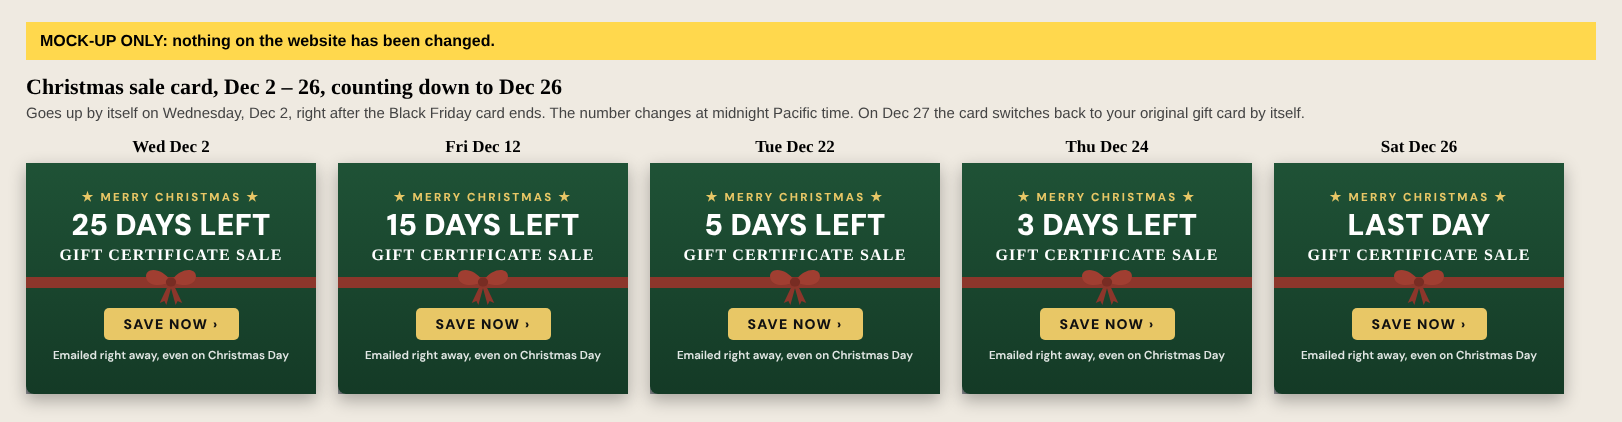
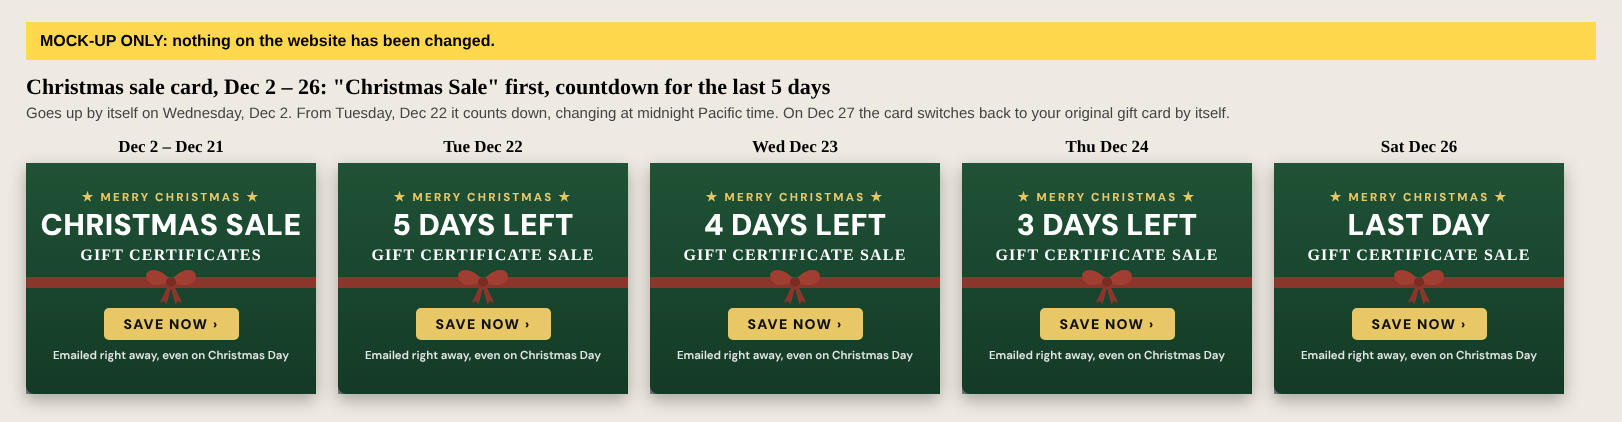
Christmas card: CHRISTMAS SALE Dec 2-21, countdown from 5 days (Dec 22-26); original card displays as a block
Claude-Session: https://claude.ai/code/session_01FKCxMu9cJw4uTku7VVBxnV

diff --git a/banners/homepage-gift-card-schedule.html b/banners/homepage-gift-card-schedule.html
@@ -3,7 +3,8 @@
   BEFORE REPLACING: copy the live Christmas card's exact code out of the site and save it (Bill wants it kept).
   What it shows, by Pacific time:
     through Tue Dec 1, 2026      -> Black Friday sale card, "SALE · N DAYS LEFT", "LAST DAY" on Dec 1
-    Wed Dec 2 through Sat Dec 26 -> Christmas sale card, "N DAYS LEFT", "LAST DAY" on Dec 26
+    Wed Dec 2 through Mon Dec 21 -> Christmas sale card reading "CHRISTMAS SALE"
+    Tue Dec 22 through Sat Dec 26 -> same card counting down, "5 DAYS LEFT" ... "LAST DAY" on Dec 26
     from Sun Dec 27              -> the original gift card (code saved Nov 20, 2026)
   Desktop (1024px and wider): 290 x 231 px, flush top-right of the hero photo, same spot and size as the Christmas card.
   Phone: up to 340 px wide, under the opening text, where the Christmas phone card is now.
@@ -14,36 +15,40 @@
 .bw-gift .bw-card{display:flex;flex-direction:column;align-items:center;justify-content:center;text-align:center;text-decoration:none;box-sizing:border-box;box-shadow:0 12px 28px rgba(0,0,0,.45),0 2px 5px rgba(0,0,0,.25);padding:4px 0 6px}
 .bw-gift-desktop .bw-card{position:absolute;top:0;right:0;z-index:20;width:290px;height:231px;border-radius:0 0 0 8px}
 .bw-gift-phone .bw-card{width:100%;max-width:340px;margin:20px auto 0;height:231px;border-radius:8px}
+/* the original card (from Dec 27) sat inside the page's own layout; as a block here it keeps its 340px max width */
+.bw-gift[data-phase="orig"] > a{display:block}
 @media (max-width:1023px){.bw-gift-desktop{display:none!important}}
 @media (min-width:1024px){.bw-gift-phone{display:none!important}}
 </style>
 <!-- DESKTOP: inside the hero photo container (the same position:relative parent the Christmas card sits in) -->
 <div class="bw-gift bw-gift-desktop" data-phase="bf"><a class="bw-card" href="/fly-fishing-gift-certificates#choose" aria-label="Black Friday sale on gift certificates" style="background:linear-gradient(180deg,#161616 0%,#000 100%)"><div style="font:900 30px/1.04 'DM Sans',Arial;letter-spacing:.3px;color:#fff;margin-top:4px;">BLACK FRIDAY</div><div style="font:900 24px/1.15 'DM Sans',Arial;letter-spacing:.6px;color:rgb(232,199,102);margin-top:3px;">SALE · <span data-countdown>DAYS LEFT</span></div><div style="font:700 16px 'Playfair Display',Georgia,serif;letter-spacing:1.2px;color:#fff;margin-top:6px;">GIFT CERTIFICATES</div><div style="position:relative;align-self:stretch;margin:13px 0 0;height:11px;background:rgb(140,54,43);"><svg aria-hidden="true" width="62" height="41" viewBox="0 0 120 80" style="position:absolute;left:50%;top:-15px;margin-left:-31px;overflow:visible;"><path d="M56 42 L38 80 L47 76 L51 84 L62 44 Z" fill="rgb(140,54,43)"/><path d="M64 42 L82 80 L73 76 L69 84 L58 44 Z" fill="rgb(140,54,43)"/><path d="M60 38 C42 8 6 10 12 32 C16 48 44 48 60 38 Z" fill="rgb(160,62,49)"/><path d="M60 38 C78 8 114 10 108 32 C104 48 76 48 60 38 Z" fill="rgb(160,62,49)"/><ellipse cx="60" cy="39" rx="10" ry="9" fill="rgb(120,44,35)"/></svg></div><div style="display:inline-block;margin-top:20px;background:rgb(232,199,102);color:#111;font:900 14px 'DM Sans',Arial;letter-spacing:1.3px;padding:7px 20px;border-radius:5px;">SAVE NOW ›</div><div style="font:600 11.5px/1.45 'DM Sans',Arial;color:rgba(255,255,255,.88);margin-top:8px;">Ends Tuesday · Emailed right away</div></a></div>
-<div class="bw-gift bw-gift-desktop" data-phase="xmas"><a class="bw-card" href="/fly-fishing-gift-certificates#choose" aria-label="Christmas sale on gift certificates" style="background:linear-gradient(180deg,rgb(31,82,54) 0%,rgb(20,58,38) 100%)"><div style="font:800 11.5px 'DM Sans',Arial;letter-spacing:2.2px;color:rgb(232,199,102);">★ MERRY CHRISTMAS ★</div><div style="font:900 30px/1.04 'DM Sans',Arial;letter-spacing:.3px;color:#fff;margin-top:4px;"><span data-countdown>DAYS LEFT</span></div><div style="font:700 16px 'Playfair Display',Georgia,serif;letter-spacing:1.2px;color:#fff;margin-top:6px;">GIFT CERTIFICATE SALE</div><div style="position:relative;align-self:stretch;margin:13px 0 0;height:11px;background:rgb(140,54,43);"><svg aria-hidden="true" width="62" height="41" viewBox="0 0 120 80" style="position:absolute;left:50%;top:-15px;margin-left:-31px;overflow:visible;"><path d="M56 42 L38 80 L47 76 L51 84 L62 44 Z" fill="rgb(140,54,43)"/><path d="M64 42 L82 80 L73 76 L69 84 L58 44 Z" fill="rgb(140,54,43)"/><path d="M60 38 C42 8 6 10 12 32 C16 48 44 48 60 38 Z" fill="rgb(160,62,49)"/><path d="M60 38 C78 8 114 10 108 32 C104 48 76 48 60 38 Z" fill="rgb(160,62,49)"/><ellipse cx="60" cy="39" rx="10" ry="9" fill="rgb(120,44,35)"/></svg></div><div style="display:inline-block;margin-top:20px;background:rgb(232,199,102);color:#111;font:900 14px 'DM Sans',Arial;letter-spacing:1.3px;padding:7px 20px;border-radius:5px;">SAVE NOW ›</div><div style="font:600 11.5px/1.45 'DM Sans',Arial;color:rgba(255,255,255,.88);margin-top:8px;">Emailed right away, even on Christmas Day</div></a></div>
+<div class="bw-gift bw-gift-desktop" data-phase="xmas"><a class="bw-card" href="/fly-fishing-gift-certificates#choose" aria-label="Christmas sale on gift certificates" style="background:linear-gradient(180deg,rgb(31,82,54) 0%,rgb(20,58,38) 100%)"><div style="font:800 11.5px 'DM Sans',Arial;letter-spacing:2.2px;color:rgb(232,199,102);">★ MERRY CHRISTMAS ★</div><div style="font:900 30px/1.04 'DM Sans',Arial;letter-spacing:.3px;color:#fff;margin-top:4px;"><span data-countdown>DAYS LEFT</span></div><div style="font:700 16px 'Playfair Display',Georgia,serif;letter-spacing:1.2px;color:#fff;margin-top:6px;"><span data-sub>GIFT CERTIFICATES</span></div><div style="position:relative;align-self:stretch;margin:13px 0 0;height:11px;background:rgb(140,54,43);"><svg aria-hidden="true" width="62" height="41" viewBox="0 0 120 80" style="position:absolute;left:50%;top:-15px;margin-left:-31px;overflow:visible;"><path d="M56 42 L38 80 L47 76 L51 84 L62 44 Z" fill="rgb(140,54,43)"/><path d="M64 42 L82 80 L73 76 L69 84 L58 44 Z" fill="rgb(140,54,43)"/><path d="M60 38 C42 8 6 10 12 32 C16 48 44 48 60 38 Z" fill="rgb(160,62,49)"/><path d="M60 38 C78 8 114 10 108 32 C104 48 76 48 60 38 Z" fill="rgb(160,62,49)"/><ellipse cx="60" cy="39" rx="10" ry="9" fill="rgb(120,44,35)"/></svg></div><div style="display:inline-block;margin-top:20px;background:rgb(232,199,102);color:#111;font:900 14px 'DM Sans',Arial;letter-spacing:1.3px;padding:7px 20px;border-radius:5px;">SAVE NOW ›</div><div style="font:600 11.5px/1.45 'DM Sans',Arial;color:rgba(255,255,255,.88);margin-top:8px;">Emailed right away, even on Christmas Day</div></a></div>
 <div class="bw-gift bw-gift-desktop" data-phase="orig"><a href="/fly-fishing-gift-certificates" aria-label="Buy a gift certificate for a private fly fishing lesson" style="position: absolute; top: 26px; right: 26px; z-index: 20; width: 178px; background: linear-gradient(180deg, hsl(var(--gift-card-bg-top)) 0%, hsl(var(--gift-card-bg-btm)) 100%); border-radius: 7px; box-shadow: var(--gift-card-shadow); text-align: center; padding: 11px 0px 9px; text-decoration: none;"><div style="font-family: var(--font-heading); font-size: 14.5px; font-weight: 700; letter-spacing: 0.7px; line-height: 18px; color: hsl(var(--gift-card-title));">GIFT CERTIFICATE</div><div style="font-family: var(--font-sans); font-size: 7.8px; font-weight: 600; letter-spacing: 1.4px; color: hsl(var(--gift-card-sub)); margin-top: 2px;">A PRIVATE FLY FISHING LESSON</div><div style="position: relative; margin-top: 15px; height: 12px; background: linear-gradient(180deg, hsl(var(--gift-ribbon-top)) 0%, hsl(var(--gift-ribbon-mid)) 50%, hsl(var(--gift-ribbon-dark)) 100%); box-shadow: var(--gift-ribbon-shadow);"><svg aria-hidden="true" width="70" height="47" viewBox="0 0 120 80" style="position: absolute; left: 50%; top: -17px; margin-left: -35px; overflow: visible;"><defs><linearGradient id="giftBowRed" x1="0" y1="0" x2="0" y2="1"><stop offset="0" stop-color="hsl(var(--gift-bow-top))"></stop><stop offset=".55" stop-color="hsl(var(--gift-ribbon-mid))"></stop><stop offset="1" stop-color="hsl(var(--gift-bow-dark))"></stop></linearGradient></defs><path d="M56 42 L38 80 L47 76 L51 84 L62 44 Z" fill="url(#giftBowRed)"></path><path d="M64 42 L82 80 L73 76 L69 84 L58 44 Z" fill="url(#giftBowRed)"></path><path d="M60 38 C42 8 6 10 12 32 C16 48 44 48 60 38 Z" fill="url(#giftBowRed)"></path><path d="M60 38 C78 8 114 10 108 32 C104 48 76 48 60 38 Z" fill="url(#giftBowRed)"></path><path d="M58 36 C44 18 22 18 22 30" fill="none" stroke="hsl(var(--gift-bow-stroke))" stroke-opacity=".5" stroke-width="2" stroke-linecap="round" stroke-linejoin="round"></path><path d="M62 36 C76 18 98 18 98 30" fill="none" stroke="hsl(var(--gift-bow-stroke))" stroke-opacity=".5" stroke-width="2" stroke-linecap="round" stroke-linejoin="round"></path><ellipse cx="60" cy="39" rx="10" ry="9" fill="hsl(var(--gift-bow-knot))"></ellipse><ellipse cx="58" cy="36" rx="4" ry="3" fill="hsl(var(--gift-bow-hi))" fill-opacity=".45"></ellipse></svg></div><div style="font-family: var(--font-sans); font-size: 12.5px; font-weight: 700; color: hsl(var(--gift-ribbon-mid)); margin-top: 19px;">Buy Online ›</div></a></div>
 <!-- PHONE: where the Christmas phone card is now -->
 <div class="bw-gift bw-gift-phone" data-phase="bf"><a class="bw-card" href="/fly-fishing-gift-certificates#choose" aria-label="Black Friday sale on gift certificates" style="background:linear-gradient(180deg,#161616 0%,#000 100%)"><div style="font:900 30px/1.04 'DM Sans',Arial;letter-spacing:.3px;color:#fff;margin-top:4px;">BLACK FRIDAY</div><div style="font:900 24px/1.15 'DM Sans',Arial;letter-spacing:.6px;color:rgb(232,199,102);margin-top:3px;">SALE · <span data-countdown>DAYS LEFT</span></div><div style="font:700 16px 'Playfair Display',Georgia,serif;letter-spacing:1.2px;color:#fff;margin-top:6px;">GIFT CERTIFICATES</div><div style="position:relative;align-self:stretch;margin:13px 0 0;height:11px;background:rgb(140,54,43);"><svg aria-hidden="true" width="62" height="41" viewBox="0 0 120 80" style="position:absolute;left:50%;top:-15px;margin-left:-31px;overflow:visible;"><path d="M56 42 L38 80 L47 76 L51 84 L62 44 Z" fill="rgb(140,54,43)"/><path d="M64 42 L82 80 L73 76 L69 84 L58 44 Z" fill="rgb(140,54,43)"/><path d="M60 38 C42 8 6 10 12 32 C16 48 44 48 60 38 Z" fill="rgb(160,62,49)"/><path d="M60 38 C78 8 114 10 108 32 C104 48 76 48 60 38 Z" fill="rgb(160,62,49)"/><ellipse cx="60" cy="39" rx="10" ry="9" fill="rgb(120,44,35)"/></svg></div><div style="display:inline-block;margin-top:20px;background:rgb(232,199,102);color:#111;font:900 14px 'DM Sans',Arial;letter-spacing:1.3px;padding:7px 20px;border-radius:5px;">SAVE NOW ›</div><div style="font:600 11.5px/1.45 'DM Sans',Arial;color:rgba(255,255,255,.88);margin-top:8px;">Ends Tuesday · Emailed right away</div></a></div>
-<div class="bw-gift bw-gift-phone" data-phase="xmas"><a class="bw-card" href="/fly-fishing-gift-certificates#choose" aria-label="Christmas sale on gift certificates" style="background:linear-gradient(180deg,rgb(31,82,54) 0%,rgb(20,58,38) 100%)"><div style="font:800 11.5px 'DM Sans',Arial;letter-spacing:2.2px;color:rgb(232,199,102);">★ MERRY CHRISTMAS ★</div><div style="font:900 30px/1.04 'DM Sans',Arial;letter-spacing:.3px;color:#fff;margin-top:4px;"><span data-countdown>DAYS LEFT</span></div><div style="font:700 16px 'Playfair Display',Georgia,serif;letter-spacing:1.2px;color:#fff;margin-top:6px;">GIFT CERTIFICATE SALE</div><div style="position:relative;align-self:stretch;margin:13px 0 0;height:11px;background:rgb(140,54,43);"><svg aria-hidden="true" width="62" height="41" viewBox="0 0 120 80" style="position:absolute;left:50%;top:-15px;margin-left:-31px;overflow:visible;"><path d="M56 42 L38 80 L47 76 L51 84 L62 44 Z" fill="rgb(140,54,43)"/><path d="M64 42 L82 80 L73 76 L69 84 L58 44 Z" fill="rgb(140,54,43)"/><path d="M60 38 C42 8 6 10 12 32 C16 48 44 48 60 38 Z" fill="rgb(160,62,49)"/><path d="M60 38 C78 8 114 10 108 32 C104 48 76 48 60 38 Z" fill="rgb(160,62,49)"/><ellipse cx="60" cy="39" rx="10" ry="9" fill="rgb(120,44,35)"/></svg></div><div style="display:inline-block;margin-top:20px;background:rgb(232,199,102);color:#111;font:900 14px 'DM Sans',Arial;letter-spacing:1.3px;padding:7px 20px;border-radius:5px;">SAVE NOW ›</div><div style="font:600 11.5px/1.45 'DM Sans',Arial;color:rgba(255,255,255,.88);margin-top:8px;">Emailed right away, even on Christmas Day</div></a></div>
+<div class="bw-gift bw-gift-phone" data-phase="xmas"><a class="bw-card" href="/fly-fishing-gift-certificates#choose" aria-label="Christmas sale on gift certificates" style="background:linear-gradient(180deg,rgb(31,82,54) 0%,rgb(20,58,38) 100%)"><div style="font:800 11.5px 'DM Sans',Arial;letter-spacing:2.2px;color:rgb(232,199,102);">★ MERRY CHRISTMAS ★</div><div style="font:900 30px/1.04 'DM Sans',Arial;letter-spacing:.3px;color:#fff;margin-top:4px;"><span data-countdown>DAYS LEFT</span></div><div style="font:700 16px 'Playfair Display',Georgia,serif;letter-spacing:1.2px;color:#fff;margin-top:6px;"><span data-sub>GIFT CERTIFICATES</span></div><div style="position:relative;align-self:stretch;margin:13px 0 0;height:11px;background:rgb(140,54,43);"><svg aria-hidden="true" width="62" height="41" viewBox="0 0 120 80" style="position:absolute;left:50%;top:-15px;margin-left:-31px;overflow:visible;"><path d="M56 42 L38 80 L47 76 L51 84 L62 44 Z" fill="rgb(140,54,43)"/><path d="M64 42 L82 80 L73 76 L69 84 L58 44 Z" fill="rgb(140,54,43)"/><path d="M60 38 C42 8 6 10 12 32 C16 48 44 48 60 38 Z" fill="rgb(160,62,49)"/><path d="M60 38 C78 8 114 10 108 32 C104 48 76 48 60 38 Z" fill="rgb(160,62,49)"/><ellipse cx="60" cy="39" rx="10" ry="9" fill="rgb(120,44,35)"/></svg></div><div style="display:inline-block;margin-top:20px;background:rgb(232,199,102);color:#111;font:900 14px 'DM Sans',Arial;letter-spacing:1.3px;padding:7px 20px;border-radius:5px;">SAVE NOW ›</div><div style="font:600 11.5px/1.45 'DM Sans',Arial;color:rgba(255,255,255,.88);margin-top:8px;">Emailed right away, even on Christmas Day</div></a></div>
 <div class="bw-gift bw-gift-phone" data-phase="orig"><a href="/fly-fishing-gift-certificates" aria-label="Buy a gift certificate for a private fly fishing lesson" style="width: 100%; max-width: 340px; margin-top: 20px; background: linear-gradient(180deg, hsl(var(--gift-card-bg-top)) 0%, hsl(var(--gift-card-bg-btm)) 100%); border-radius: 7px; box-shadow: var(--gift-card-shadow); text-align: center; padding: 11px 0px 9px; text-decoration: none;"><div style="font-family: var(--font-heading); font-size: 14.5px; font-weight: 700; letter-spacing: 0.7px; line-height: 18px; color: hsl(var(--gift-card-title));">GIFT CERTIFICATE</div><div style="font-family: var(--font-sans); font-size: 7.8px; font-weight: 600; letter-spacing: 1.4px; color: hsl(var(--gift-card-sub)); margin-top: 2px;">A PRIVATE FLY FISHING LESSON</div><div style="position: relative; margin-top: 15px; height: 12px; background: linear-gradient(180deg, hsl(var(--gift-ribbon-top)) 0%, hsl(var(--gift-ribbon-mid)) 50%, hsl(var(--gift-ribbon-dark)) 100%); box-shadow: var(--gift-ribbon-shadow);"><svg aria-hidden="true" width="70" height="47" viewBox="0 0 120 80" style="position: absolute; left: 50%; top: -17px; margin-left: -35px; overflow: visible;"><defs><linearGradient id="giftBowRedMobile" x1="0" y1="0" x2="0" y2="1"><stop offset="0" stop-color="hsl(var(--gift-bow-top))"></stop><stop offset=".55" stop-color="hsl(var(--gift-ribbon-mid))"></stop><stop offset="1" stop-color="hsl(var(--gift-bow-dark))"></stop></linearGradient></defs><path d="M56 42 L38 80 L47 76 L51 84 L62 44 Z" fill="url(#giftBowRedMobile)"></path><path d="M64 42 L82 80 L73 76 L69 84 L58 44 Z" fill="url(#giftBowRedMobile)"></path><path d="M60 38 C42 8 6 10 12 32 C16 48 44 48 60 38 Z" fill="url(#giftBowRedMobile)"></path><path d="M60 38 C78 8 114 10 108 32 C104 48 76 48 60 38 Z" fill="url(#giftBowRedMobile)"></path><path d="M58 36 C44 18 22 18 22 30" fill="none" stroke="hsl(var(--gift-bow-stroke))" stroke-opacity=".5" stroke-width="2" stroke-linecap="round" stroke-linejoin="round"></path><path d="M62 36 C76 18 98 18 98 30" fill="none" stroke="hsl(var(--gift-bow-stroke))" stroke-opacity=".5" stroke-width="2" stroke-linecap="round" stroke-linejoin="round"></path><ellipse cx="60" cy="39" rx="10" ry="9" fill="hsl(var(--gift-bow-knot))"></ellipse><ellipse cx="58" cy="36" rx="4" ry="3" fill="hsl(var(--gift-bow-hi))" fill-opacity=".45"></ellipse></svg></div><div style="font-family: var(--font-sans); font-size: 12.5px; font-weight: 700; color: hsl(var(--gift-ribbon-mid)); margin-top: 19px;">Buy Online ›</div></a></div>
 <script>
 // Days left in a sale that ends at the end of endDate (YYYY-MM-DD), counted in Pacific time.
-// Returns null after the sale has ended.
-function saleCountdown(endDate, now) {
+// Returns null after the sale has ended. With startAt/before: returns before text while more than startAt days remain.
+function saleCountdown(endDate, now, startAt, before) {
   now = now || new Date();
   var pt = new Intl.DateTimeFormat('en-CA', {timeZone: 'America/Los_Angeles', year: 'numeric', month: '2-digit', day: '2-digit'}).format(now);
   var today = Date.UTC(+pt.slice(0, 4), +pt.slice(5, 7) - 1, +pt.slice(8, 10));
   var end = Date.UTC(+endDate.slice(0, 4), +endDate.slice(5, 7) - 1, +endDate.slice(8, 10));
   var left = Math.round((end - today) / 86400000) + 1;
   if (left < 1) return null;
+  if (startAt && left > startAt) return before;
   return left === 1 ? 'LAST DAY' : left + ' DAYS LEFT';
 }
 (function(){
   var now = window.__bwGiftNow ? new Date(window.__bwGiftNow) : new Date();  /* __bwGiftNow: testing only */
-  var bf = saleCountdown('2026-12-01', now), xm = bf ? null : saleCountdown('2026-12-26', now);
+  var bf = saleCountdown('2026-12-01', now), xm = bf ? null : saleCountdown('2026-12-26', now, 5, 'CHRISTMAS SALE');
   var phase = bf ? 'bf' : (xm ? 'xmas' : 'orig');
   document.querySelectorAll('.bw-gift[data-phase="' + phase + '"]').forEach(function(el){
     el.setAttribute('data-on', '');
     el.querySelectorAll('[data-countdown]').forEach(function(s){ s.textContent = phase === 'bf' ? bf : xm; });
+    el.querySelectorAll('[data-sub]').forEach(function(s){ s.textContent = xm === 'CHRISTMAS SALE' ? 'GIFT CERTIFICATES' : 'GIFT CERTIFICATE SALE'; });
   });
 })();
 </script>

diff --git a/mockups/_tmp.html b/mockups/_tmp.html
@@ -1,0 +1,1 @@
+<html><body style="margin:0;width:1680px;height:1050px;background:url(homepage-now-christmas.png) no-repeat 0 0;"><div style="position:absolute;left:0;top:296px;width:1660px;height:600px;"><a class="gcard" href="/fly-fishing-gift-certificates#choose" style="position:absolute;top:0;right:0;width:290px;height:231px;box-sizing:border-box;background:linear-gradient(180deg,rgb(31,82,54) 0%,rgb(20,58,38) 100%);border-radius:0 0 0 8px;box-shadow:0 12px 28px rgba(0,0,0,.45),0 2px 5px rgba(0,0,0,.25);text-align:center;text-decoration:none;padding:4px 0 6px;display:flex;flex-direction:column;align-items:center;justify-content:center;"><div style="font:800 11.5px 'DM Sans',Arial;letter-spacing:2.2px;color:rgb(232,199,102);">★ MERRY CHRISTMAS ★</div><div style="font:900 30px/1.04 'DM Sans',Arial;letter-spacing:.3px;color:#fff;margin-top:4px;">LAST DAY</div><div style="font:700 16px 'Playfair Display',Georgia,serif;letter-spacing:1.2px;color:#fff;margin-top:6px;">GIFT CERTIFICATE SALE</div><div style="position:relative;align-self:stretch;margin:13px 0 0;height:11px;background:rgb(140,54,43);"><svg aria-hidden="true" width="62" height="41" viewBox="0 0 120 80" style="position:absolute;left:50%;top:-15px;margin-left:-31px;overflow:visible;"><path d="M56 42 L38 80 L47 76 L51 84 L62 44 Z" fill="rgb(140,54,43)"/><path d="M64 42 L82 80 L73 76 L69 84 L58 44 Z" fill="rgb(140,54,43)"/><path d="M60 38 C42 8 6 10 12 32 C16 48 44 48 60 38 Z" fill="rgb(160,62,49)"/><path d="M60 38 C78 8 114 10 108 32 C104 48 76 48 60 38 Z" fill="rgb(160,62,49)"/><ellipse cx="60" cy="39" rx="10" ry="9" fill="rgb(120,44,35)"/></svg></div><div style="display:inline-block;margin-top:20px;background:rgb(232,199,102);color:#111;font:900 14px 'DM Sans',Arial;letter-spacing:1.3px;padding:7px 20px;border-radius:5px;">SAVE NOW ›</div><div style="font:600 11.5px/1.45 'DM Sans',Arial;color:rgba(255,255,255,.88);margin-top:8px;">Emailed right away, even on Christmas Day</div></a></div></body></html>

diff --git a/mockups/_sheet.html b/mockups/_sheet.html
@@ -1,0 +1,1 @@
+<html><body style="margin:0;background:#efeae1;padding:22px 26px 28px;width:1570px;font-family:Arial"><div style="background:#ffd84d;font:700 16px Arial;padding:10px 14px;margin-bottom:8px">MOCK-UP ONLY: nothing on the website has been changed.</div><div style="font:700 22px Georgia;margin:14px 0 4px">Christmas sale card, Dec 2 – 26: "Christmas Sale" first, countdown for the last 5 days</div><div style="font:15px Arial;color:#444;margin-bottom:16px">Goes up by itself on Wednesday, Dec 2. From Tuesday, Dec 22 it counts down, changing at midnight Pacific time. On Dec 27 the card switches back to your original gift card by itself.</div><div style="display:flex;gap:22px"><div style="text-align:center"><div style="font:700 17px Georgia;margin-bottom:6px">Dec 2 – Dec 21</div><img src="_d0.png" width="290" height="231" style="display:block;box-shadow:0 6px 16px rgba(0,0,0,.3)"></div><div style="text-align:center"><div style="font:700 17px Georgia;margin-bottom:6px">Tue Dec 22</div><img src="_d1.png" width="290" height="231" style="display:block;box-shadow:0 6px 16px rgba(0,0,0,.3)"></div><div style="text-align:center"><div style="font:700 17px Georgia;margin-bottom:6px">Wed Dec 23</div><img src="_d2.png" width="290" height="231" style="display:block;box-shadow:0 6px 16px rgba(0,0,0,.3)"></div><div style="text-align:center"><div style="font:700 17px Georgia;margin-bottom:6px">Thu Dec 24</div><img src="_d3.png" width="290" height="231" style="display:block;box-shadow:0 6px 16px rgba(0,0,0,.3)"></div><div style="text-align:center"><div style="font:700 17px Georgia;margin-bottom:6px">Sat Dec 26</div><img src="_d4.png" width="290" height="231" style="display:block;box-shadow:0 6px 16px rgba(0,0,0,.3)"></div></div></body></html>

diff --git a/mockups/countdown.js b/mockups/countdown.js
@@ -1,12 +1,13 @@
 // Days left in a sale that ends at the end of endDate (YYYY-MM-DD), counted in Pacific time.
-// Returns null after the sale has ended.
-function saleCountdown(endDate, now) {
+// Returns null after the sale has ended. With startAt/before: returns before text while more than startAt days remain.
+function saleCountdown(endDate, now, startAt, before) {
   now = now || new Date();
   var pt = new Intl.DateTimeFormat('en-CA', {timeZone: 'America/Los_Angeles', year: 'numeric', month: '2-digit', day: '2-digit'}).format(now);
   var today = Date.UTC(+pt.slice(0, 4), +pt.slice(5, 7) - 1, +pt.slice(8, 10));
   var end = Date.UTC(+endDate.slice(0, 4), +endDate.slice(5, 7) - 1, +endDate.slice(8, 10));
   var left = Math.round((end - today) / 86400000) + 1;
   if (left < 1) return null;
+  if (startAt && left > startAt) return before;
   return left === 1 ? 'LAST DAY' : left + ' DAYS LEFT';
 }
 if (typeof module !== 'undefined') module.exports = saleCountdown;

diff --git a/mockups/build_snippet.py b/mockups/build_snippet.py
@@ -3,7 +3,7 @@ import re
 exec(open("mockups/make_cards.py").read().split("CARDS = [")[0])
 BF_END, XM_END = "2026-12-01", "2026-12-26"
 bf_parts=[("big","BLACK FRIDAY"),("biggold","SALE · <span data-countdown>DAYS LEFT</span>"),("sub","GIFT CERTIFICATES"),("ribbon",""),("button","SAVE NOW ›"),("foot","Ends Tuesday · Emailed right away")]
-xm_parts=[("kicker","★ MERRY CHRISTMAS ★"),("big","<span data-countdown>DAYS LEFT</span>"),("sub","GIFT CERTIFICATE SALE"),("ribbon",""),("button","SAVE NOW ›"),("foot","Emailed right away, even on Christmas Day")]
+xm_parts=[("kicker","★ MERRY CHRISTMAS ★"),("big","<span data-countdown>DAYS LEFT</span>"),("sub","<span data-sub>GIFT CERTIFICATES</span>"),("ribbon",""),("button","SAVE NOW ›"),("foot","Emailed right away, even on Christmas Day")]
 def inner(bg,parts,small_gold=False):
     h=card(bg,parts)
     if small_gold:
@@ -21,7 +21,8 @@ snippet=f'''<!-- HOMEPAGE GIFT CARD SCHEDULE (prepared Nov 26, 2026; design appr
   BEFORE REPLACING: copy the live Christmas card's exact code out of the site and save it (Bill wants it kept).
   What it shows, by Pacific time:
     through Tue Dec 1, 2026      -> Black Friday sale card, "SALE · N DAYS LEFT", "LAST DAY" on Dec 1
-    Wed Dec 2 through Sat Dec 26 -> Christmas sale card, "N DAYS LEFT", "LAST DAY" on Dec 26
+    Wed Dec 2 through Mon Dec 21 -> Christmas sale card reading "CHRISTMAS SALE"
+    Tue Dec 22 through Sat Dec 26 -> same card counting down, "5 DAYS LEFT" ... "LAST DAY" on Dec 26
     from Sun Dec 27              -> the original gift card (code saved Nov 20, 2026)
   Desktop (1024px and wider): 290 x 231 px, flush top-right of the hero photo, same spot and size as the Christmas card.
   Phone: up to 340 px wide, under the opening text, where the Christmas phone card is now.
@@ -32,6 +33,8 @@ snippet=f'''<!-- HOMEPAGE GIFT CARD SCHEDULE (prepared Nov 26, 2026; design appr
 .bw-gift .bw-card{{display:flex;flex-direction:column;align-items:center;justify-content:center;text-align:center;text-decoration:none;box-sizing:border-box;box-shadow:0 12px 28px rgba(0,0,0,.45),0 2px 5px rgba(0,0,0,.25);padding:4px 0 6px}}
 .bw-gift-desktop .bw-card{{position:absolute;top:0;right:0;z-index:20;width:290px;height:231px;border-radius:0 0 0 8px}}
 .bw-gift-phone .bw-card{{width:100%;max-width:340px;margin:20px auto 0;height:231px;border-radius:8px}}
+/* the original card (from Dec 27) sat inside the page's own layout; as a block here it keeps its 340px max width */
+.bw-gift[data-phase="orig"] > a{{display:block}}
 @media (max-width:1023px){{.bw-gift-desktop{{display:none!important}}}}
 @media (min-width:1024px){{.bw-gift-phone{{display:none!important}}}}
 </style>
@@ -46,11 +49,12 @@ snippet=f'''<!-- HOMEPAGE GIFT CARD SCHEDULE (prepared Nov 26, 2026; design appr
 <script>
 {cd}(function(){{
   var now = window.__bwGiftNow ? new Date(window.__bwGiftNow) : new Date();  /* __bwGiftNow: testing only */
-  var bf = saleCountdown('{BF_END}', now), xm = bf ? null : saleCountdown('{XM_END}', now);
+  var bf = saleCountdown('{BF_END}', now), xm = bf ? null : saleCountdown('{XM_END}', now, 5, 'CHRISTMAS SALE');
   var phase = bf ? 'bf' : (xm ? 'xmas' : 'orig');
   document.querySelectorAll('.bw-gift[data-phase="' + phase + '"]').forEach(function(el){{
     el.setAttribute('data-on', '');
     el.querySelectorAll('[data-countdown]').forEach(function(s){{ s.textContent = phase === 'bf' ? bf : xm; }});
+    el.querySelectorAll('[data-sub]').forEach(function(s){{ s.textContent = xm === 'CHRISTMAS SALE' ? 'GIFT CERTIFICATES' : 'GIFT CERTIFICATE SALE'; }});
   }});
 }})();
 </script>

diff --git a/mockups/make_xmas_countdown.py b/mockups/make_xmas_countdown.py
@@ -3,14 +3,14 @@ import subprocess, json
 exec(open("make_cards.py").read().split("CARDS = [")[0])
 from playwright.sync_api import sync_playwright
 
-DAYS = [("Wed Dec 2", "2026-12-02T12:00:00-08:00"), ("Fri Dec 12", "2026-12-12T12:00:00-08:00"),
-        ("Tue Dec 22", "2026-12-22T12:00:00-08:00"), ("Thu Dec 24", "2026-12-24T12:00:00-08:00"), ("Sat Dec 26", "2026-12-26T12:00:00-08:00")]
+DAYS = [("Dec 2 – Dec 21", "2026-12-02T12:00:00-08:00"), ("Tue Dec 22", "2026-12-22T12:00:00-08:00"),
+        ("Wed Dec 23", "2026-12-23T12:00:00-08:00"), ("Thu Dec 24", "2026-12-24T12:00:00-08:00"), ("Sat Dec 26", "2026-12-26T12:00:00-08:00")]
 # use the real tested countdown code for each day's text
 texts = json.loads(subprocess.check_output(["node", "-e",
-    "const f=require('./countdown.js');console.log(JSON.stringify(" + json.dumps([d for _, d in DAYS]) + ".map(t=>f('2026-12-26',new Date(t)))))"]))
+    "const f=require('./countdown.js');console.log(JSON.stringify(" + json.dumps([d for _, d in DAYS]) + ".map(t=>f('2026-12-26',new Date(t),5,'CHRISTMAS SALE'))))"]))
 
 def xcard(t):
-    return card(GREEN, [("kicker", "★ MERRY CHRISTMAS ★"), ("big", t), ("sub", "GIFT CERTIFICATE SALE"), ("ribbon", ""),
+    return card(GREEN, [("kicker", "★ MERRY CHRISTMAS ★"), ("big", t), ("sub", "GIFT CERTIFICATES" if t == "CHRISTMAS SALE" else "GIFT CERTIFICATE SALE"), ("ribbon", ""),
                         ("button", "SAVE NOW ›"), ("foot", "Emailed right away, even on Christmas Day")])
 
 with sync_playwright() as p:
@@ -26,8 +26,8 @@ with sync_playwright() as p:
     strip = "".join(f'<div style="text-align:center"><div style="font:700 17px Georgia;margin-bottom:6px">{d}</div><img src="_d{i}.png" width="290" height="231" style="display:block;box-shadow:0 6px 16px rgba(0,0,0,.3)"></div>' for i, (d, _) in enumerate(DAYS))
     sheet = ('<html><body style="margin:0;background:#efeae1;padding:22px 26px 28px;width:1570px;font-family:Arial">'
              '<div style="background:#ffd84d;font:700 16px Arial;padding:10px 14px;margin-bottom:8px">MOCK-UP ONLY: nothing on the website has been changed.</div>'
-             '<div style="font:700 22px Georgia;margin:14px 0 4px">Christmas sale card, Dec 2 – 26, counting down to Dec 26</div>'
-             '<div style="font:15px Arial;color:#444;margin-bottom:16px">Goes up by itself on Wednesday, Dec 2, right after the Black Friday card ends. The number changes at midnight Pacific time. On Dec 27 the card switches back to your original gift card by itself.</div>'
+             '<div style="font:700 22px Georgia;margin:14px 0 4px">Christmas sale card, Dec 2 – 26: "Christmas Sale" first, countdown for the last 5 days</div>'
+             '<div style="font:15px Arial;color:#444;margin-bottom:16px">Goes up by itself on Wednesday, Dec 2. From Tuesday, Dec 22 it counts down, changing at midnight Pacific time. On Dec 27 the card switches back to your original gift card by itself.</div>'
              f'<div style="display:flex;gap:22px">{strip}</div></body></html>')
     open("_sheet.html", "w").write(sheet)
     pg2 = b.new_page(viewport={"width": 1622, "height": 400}); pg2.goto("file:///home/claude/fishing-report/mockups/_sheet.html"); pg2.wait_for_timeout(300)
